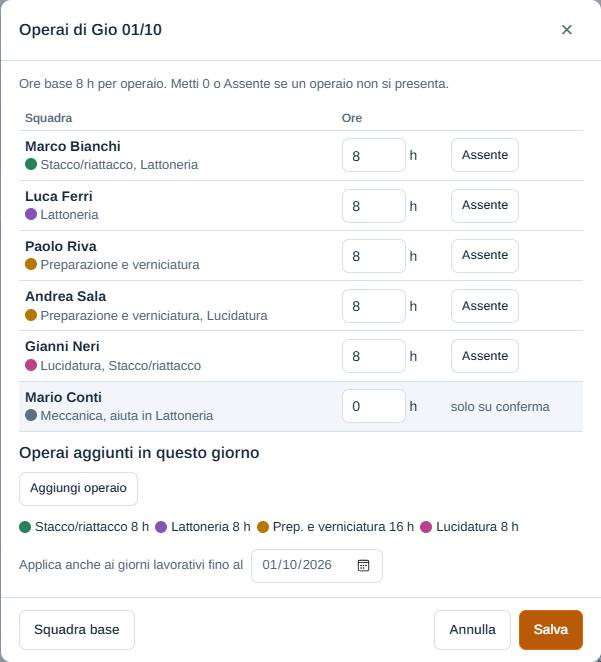
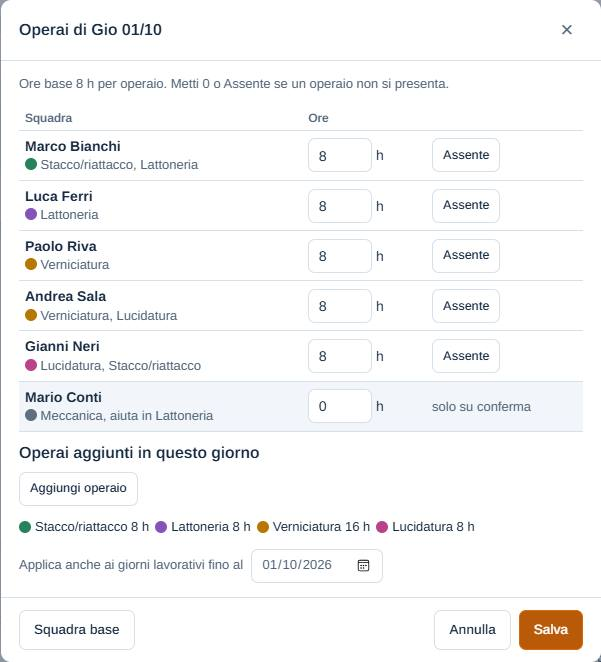
Planner 0.38.0: niente chiamate a ogni tasto, nomi della verniciatura

diff --git a/planner/guscio.js b/planner/guscio.js
@@ -39,11 +39,13 @@ const eCampo = el => el && /^(INPUT|SELECT|TEXTAREA)$/.test(el.tagName) && el.ty
 const diversoDalServer = c => c.type === 'checkbox' || c.type === 'radio' ? c.checked !== c.hasAttribute('checked')
   : c.tagName === 'SELECT' ? c.value !== ((c.querySelector('option[selected]') || c.querySelector('option') || {}).value ?? '')
   : c.value !== (c.getAttribute('value') ?? (c.tagName === 'TEXTAREA' ? c.defaultValue : ''));
-/** I campi della parte di pagina (radice) in cui avviene l'azione: quello dell'azione e quelli cambiati dall'utente.
- *  Gli altri il server li conosce già: rimandarli riporterebbe indietro valori che ha appena ricalcolato. */
+/** I campi della parte di pagina (radice) in cui avviene l'azione: quello dell'azione e quelli scritti dall'utente,
+ *  anche se il server li ha già ricevuti: fuori da una finestra aperta non li ricorda da una richiesta all'altra.
+ *  Gli altri il server li conosce già: rimandarli riporterebbe indietro valori che ha appena ricalcolato
+ *  (un campo ricalcolato dal server esce da «inviato»). */
 function campiDi(r, proprio) {
   const out = [];
-  for (const c of r.querySelectorAll('input, select, textarea')) { if (c.type === 'file' || (c !== proprio && !diversoDalServer(c))) continue; inviato.set(c, statoCampo(c)); out.push(campo(c)); }
+  for (const c of r.querySelectorAll('input, select, textarea')) { if (c.type === 'file' || (c !== proprio && !diversoDalServer(c) && !inviato.has(c))) continue; inviato.set(c, statoCampo(c)); out.push(campo(c)); }
   return out;
 }
 function evento(tipo, el, extra = {}) {
@@ -60,10 +62,11 @@ function evento(tipo, el, extra = {}) {
 let inCoda = [], lavoro = null, anteprime = 0, attesaPv = 0; // attesaPv: anteprima del parcheggio in attesa di partire
 const occupato = () => !!lavoro || inCoda.length > 0 || anteprime > 0;
 // in attesa: richieste in coda o in corso, più le scritture non ancora inviate (usato anche dalle prove automatiche)
-const aggiornaAttesa = () => { window.__inVolo = (lavoro ? 1 : 0) + inCoda.length + anteprime + attesaInput.size + (attesaPv ? 1 : 0); };
+const aggiornaAttesa = () => { window.__inVolo = (lavoro ? 1 : 0) + inCoda.length + anteprime + [...attesaInput.values()].filter(Boolean).length + (attesaPv ? 1 : 0); };
 function invia(ev) {
   if (ev.t === 'anteprima') { anteprime++; aggiornaAttesa(); return richiesta([ev]).finally(() => { anteprime--; aggiornaAttesa(); }); }
-  return new Promise(ok => { inCoda.push({ ev, ok }); aggiornaAttesa(); lavora(); });
+  // lavora parte alla fine del giro: le azioni nate insieme (lo scritto in attesa e l'azione che lo fa partire) viaggiano insieme
+  return new Promise(ok => { inCoda.push({ ev, ok }); aggiornaAttesa(); queueMicrotask(lavora); });
 }
 function lavora() {
   if (lavoro) return;
@@ -173,7 +176,8 @@ function aggiornaParte(p) {
       const toccato = inviato.has(da) && inviato.get(da) !== statoCampo(da);
       let tieni = true;
       if (da.tagName === 'INPUT' && (da.type === 'checkbox' || da.type === 'radio')) { tieni = toccato || da.hasAttribute('checked') === a.hasAttribute('checked'); if (tieni) a.checked = da.checked; }
-      else if (da.tagName === 'INPUT' || da.tagName === 'TEXTAREA') { tieni = toccato || da.getAttribute('value') === a.getAttribute('value'); if (tieni) a.value = da.value; }
+      // il server che rimanda lo stesso valore dell'utente non lo ha cambiato: il campo resta «scritto» (vedi campiDi)
+      else if (da.tagName === 'INPUT' || da.tagName === 'TEXTAREA') { tieni = toccato || da.getAttribute('value') === a.getAttribute('value') || (da.tagName === 'INPUT' ? a.getAttribute('value') ?? '' : a.textContent) === da.value; if (tieni) a.value = da.value; }
       else if (da.tagName === 'SELECT') { const v = s => (s.querySelector('option[selected]') || {}).value; tieni = toccato || v(da) === v(a); if (tieni) a.value = da.value; }
       // il campo ora mostra il valore del server (es. ore convertite in minuti): non è una scrittura dell'utente
       if (!tieni) inviato.delete(da);
@@ -360,13 +364,18 @@ document.addEventListener('click', ev => {
   evento('click', ev.target, { clientX: ev.clientX, clientY: ev.clientY, button: ev.button });
 });
 document.addEventListener('change', ev => { if (radiceDi(ev.target) && ev.target.type !== 'file') evento('change', ev.target); });
-const attesaInput = new Map();
+const attesaInput = new Map(); // campo → timer; null = parte con l'azione successiva
 function svuotaInput() { for (const [el, t] of [...attesaInput]) { clearTimeout(t); attesaInput.delete(el); if (el.isConnected) evento('input', el); } aggiornaAttesa(); }
 document.addEventListener('input', ev => {
-  // i campi segnati data-invio="change" partono solo con 'change', cioè quando si esce dal campo
+  // niente chiamate a ogni tasto (2026-11-15): lo scritto parte con l'azione successiva o uscendo dal campo ('change');
+  // solo i campi segnati data-invio="input" (ricalcolano qualcosa mentre si scrive) partono da soli, dopo una pausa.
+  // I campi segnati data-invio="change" partono solo con 'change'
   const el = ev.target; if (!radiceDi(el) || el.type === 'file' || el.dataset.invio === 'change') return;
-  clearTimeout(attesaInput.get(el)); attesaInput.set(el, setTimeout(() => { attesaInput.delete(el); evento('input', el); aggiornaAttesa(); }, 200)); aggiornaAttesa();
+  clearTimeout(attesaInput.get(el));
+  attesaInput.set(el, el.dataset.invio === 'input' ? setTimeout(() => { attesaInput.delete(el); evento('input', el); aggiornaAttesa(); }, 400) : null); aggiornaAttesa();
 });
+// passando a un'altra scheda del browser lo scritto non resta indietro
+document.addEventListener('visibilitychange', () => { if (document.visibilityState === 'hidden' && attesaInput.size) svuotaInput(); });
 document.addEventListener('toggle', ev => { if (radiceDi(ev.target) && ev.target.tagName === 'DETAILS') evento('toggle', ev.target, { aperto: ev.target.open }); }, true);
 document.addEventListener('keydown', ev => {
   if (!C.voce || document.getElementById('landing') || (ev.target.closest && ev.target.closest('#dlgUtenti'))) return;
